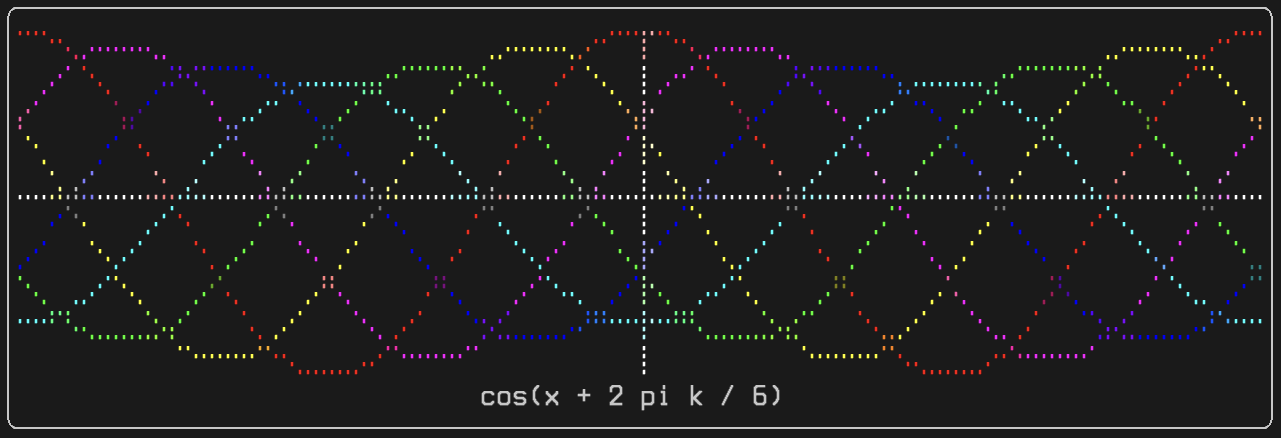
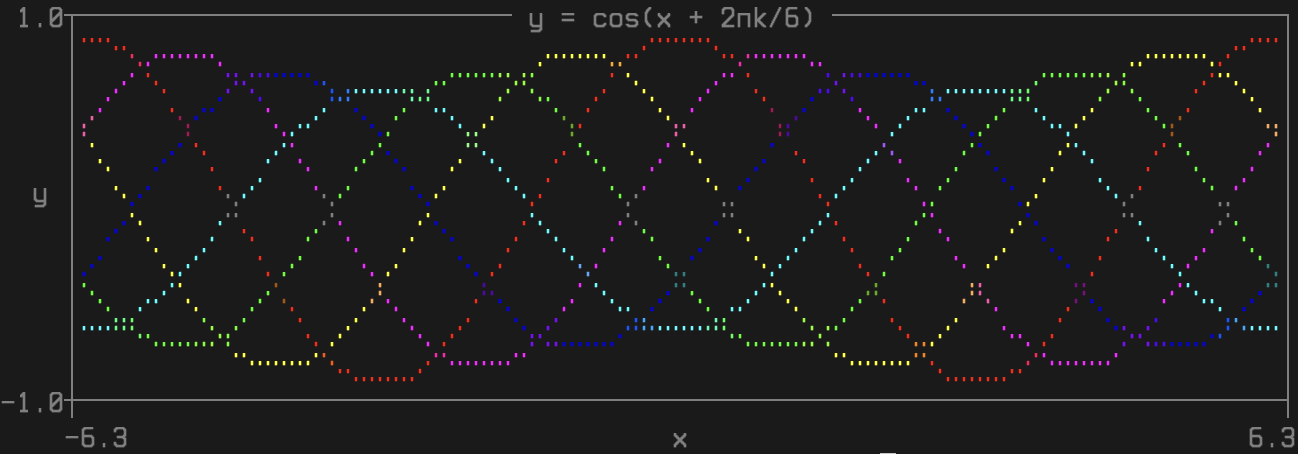
update quickstart

diff --git a/README.md b/README.md
@@ -65,7 +65,7 @@ import numpy as np
 
 xs = np.linspace(-2*np.pi, +2*np.pi, 156)
 
-plot = mp.border(
+plot = mp.axes(
     mp.scatter(
         (xs, 1.0 * np.cos(xs), "red"),
         (xs, 0.9 * np.cos(xs - 0.33 * np.pi), "magenta"),
@@ -73,13 +73,13 @@ plot = mp.border(
         (xs, 0.7 * np.cos(xs - 1.00 * np.pi), "cyan"),
         (xs, 0.8 * np.cos(xs - 1.33 * np.pi), "green"),
         (xs, 0.9 * np.cos(xs - 1.66 * np.pi), "yellow"),
-        mp.xaxis(-2*np.pi, +2*np.pi, 156),
-        mp.yaxis(-1, 1, 40),
-        width=78,
+        width=75,
         height=10,
         yrange=(-1,1),
-    )
-    / mp.center(mp.text(f"cos(x + 2 pi k / 6)"), width=78)
+    ),
+    title=" y = cos(x + 2πk/6) ",
+    xlabel="x",
+    ylabel="y",
 )
 ```
 
